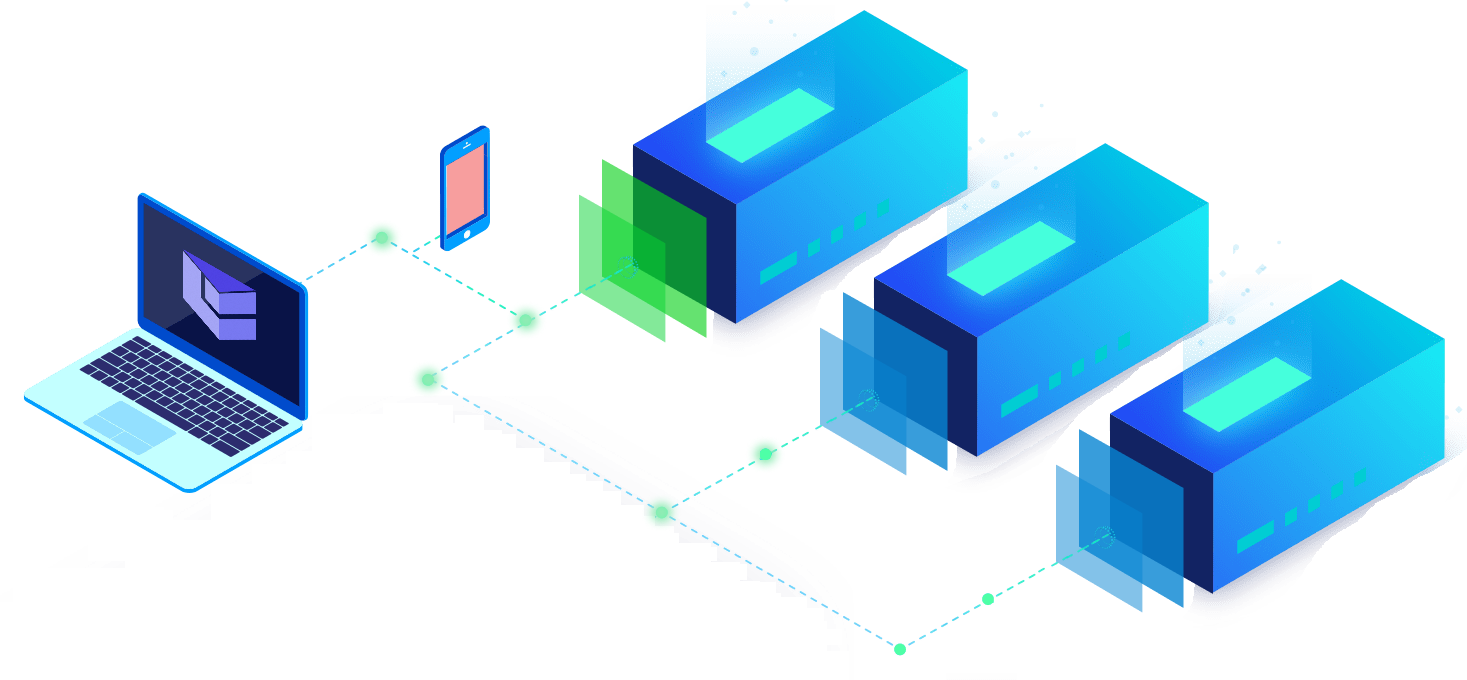
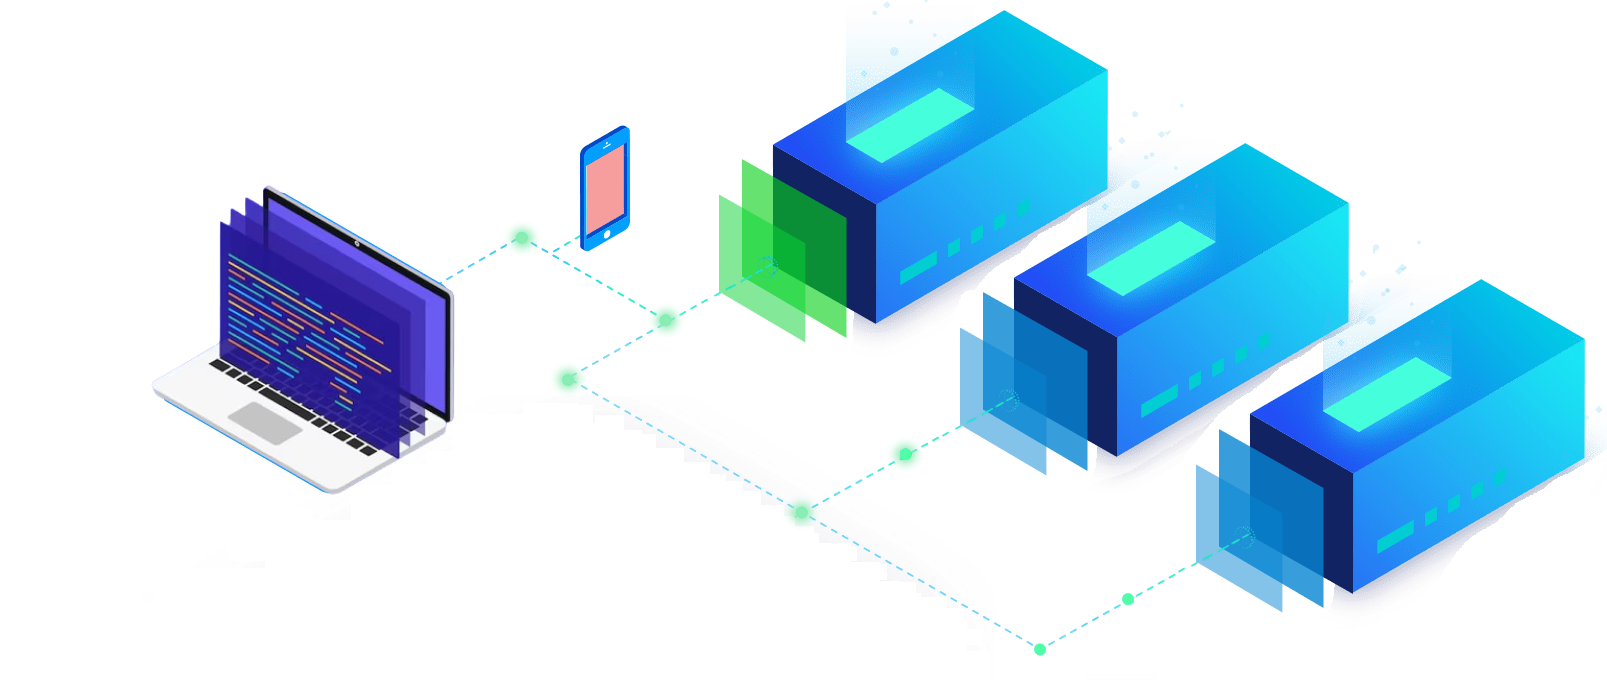
new brand

diff --git a/public/css/custom.min.css b/public/css/custom.min.css
@@ -1,1 +1,1 @@
-blockquote{font-style:italic;padding:20px;margin:0 0 20px;background:#f9f9f9;border-left:10px solid #ccc}pre{padding:5px}.img-wrapper-home{height:200px;display:flex;gap:20px}.img-wrapper-single{width:560px;height:314px;display:flex;gap:20px}.box img{width:100%;height:100%}.box1 img{object-fit:cover}
+blockquote{font-style:italic;padding:20px;margin:0 0 20px;background:#f9f9f9;border-left:10px solid #ccc}pre{padding:5px}.img-wrapper-home{height:200px;display:flex;gap:20px}.img-wrapper-single{width:560px;height:314px;display:flex;gap:20px}.box img{width:100%;height:100%}.box1 img{object-fit:cover}body{font-family:nba,-apple-system,BlinkMacSystemFont,Roboto,segoe ui,Helvetica,Arial,sans-serif}

diff --git a/public/index.html b/public/index.html
@@ -180,7 +180,7 @@
             <div class="row align-items-center flex-row-reverse gutter-vr-30px">
                 <div class="col-lg-5">
                     <div class="gfx py-4 mx-auto mx-lg-0 animated" data-animate="fadeInUp" data-delay=".1">
-                        <img src="/images/salvia/gfx-i.png" alt="gfx">
+                        <img src="/images/fencing-team.png" alt="gfx">
                     </div>
                 </div>
                 <div class="col-lg-7">
